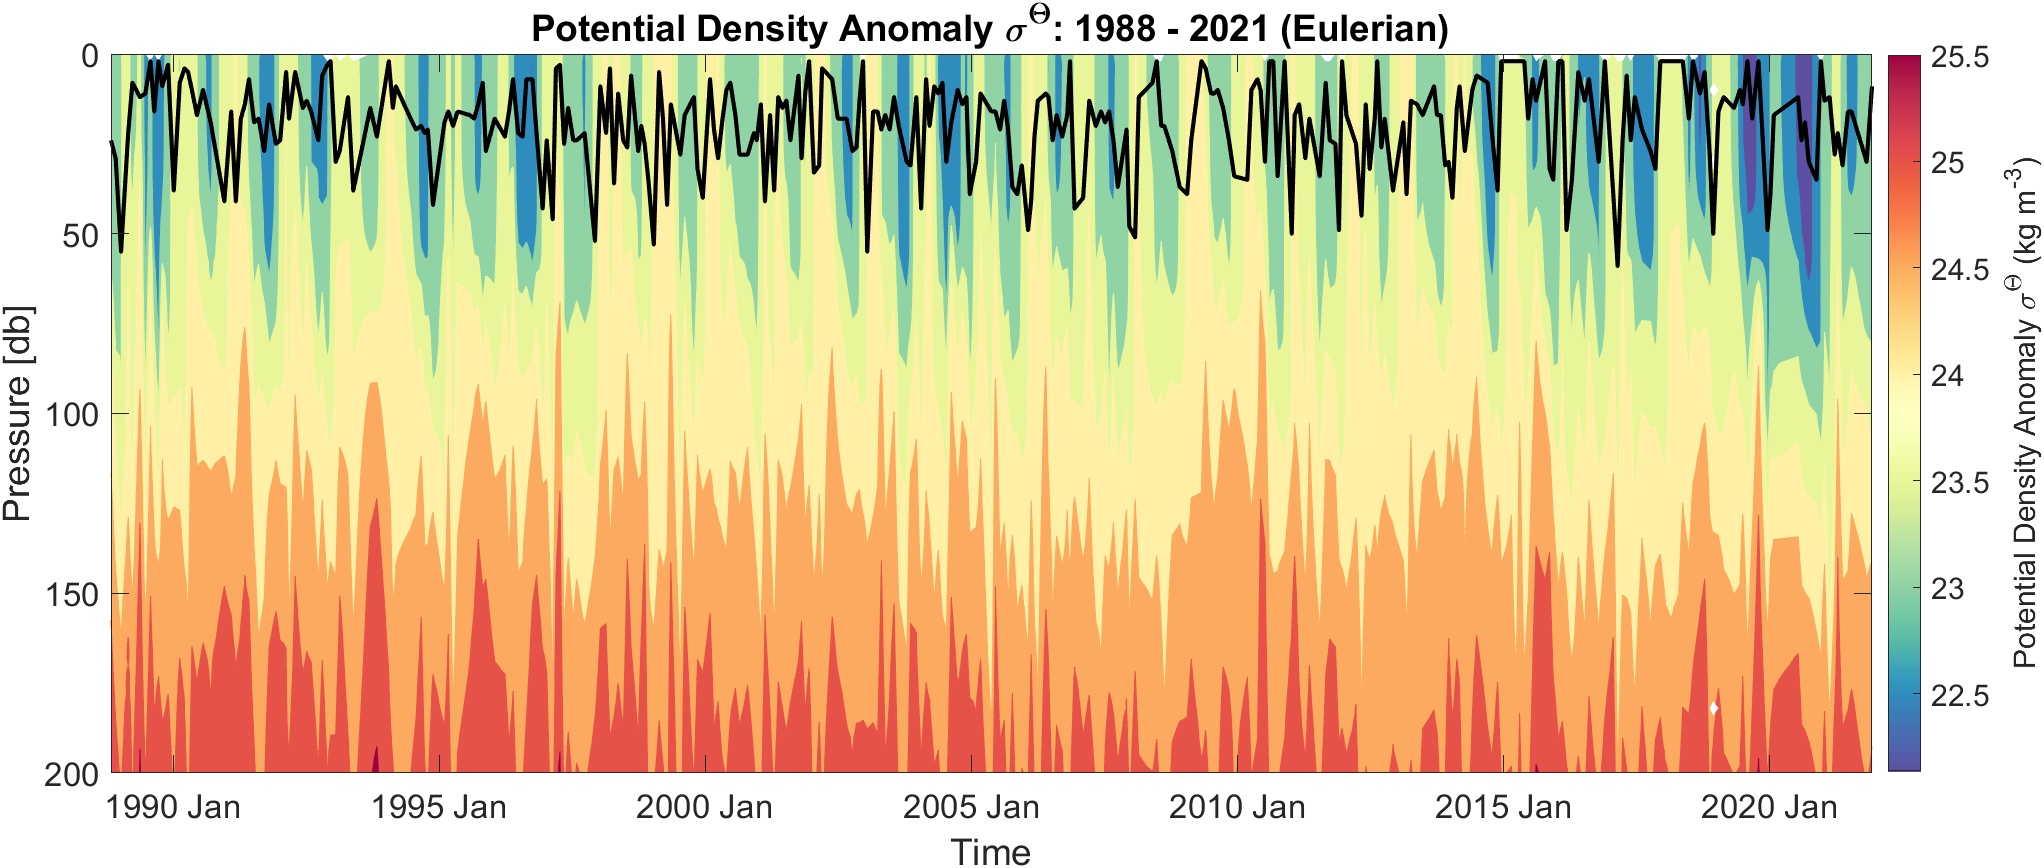
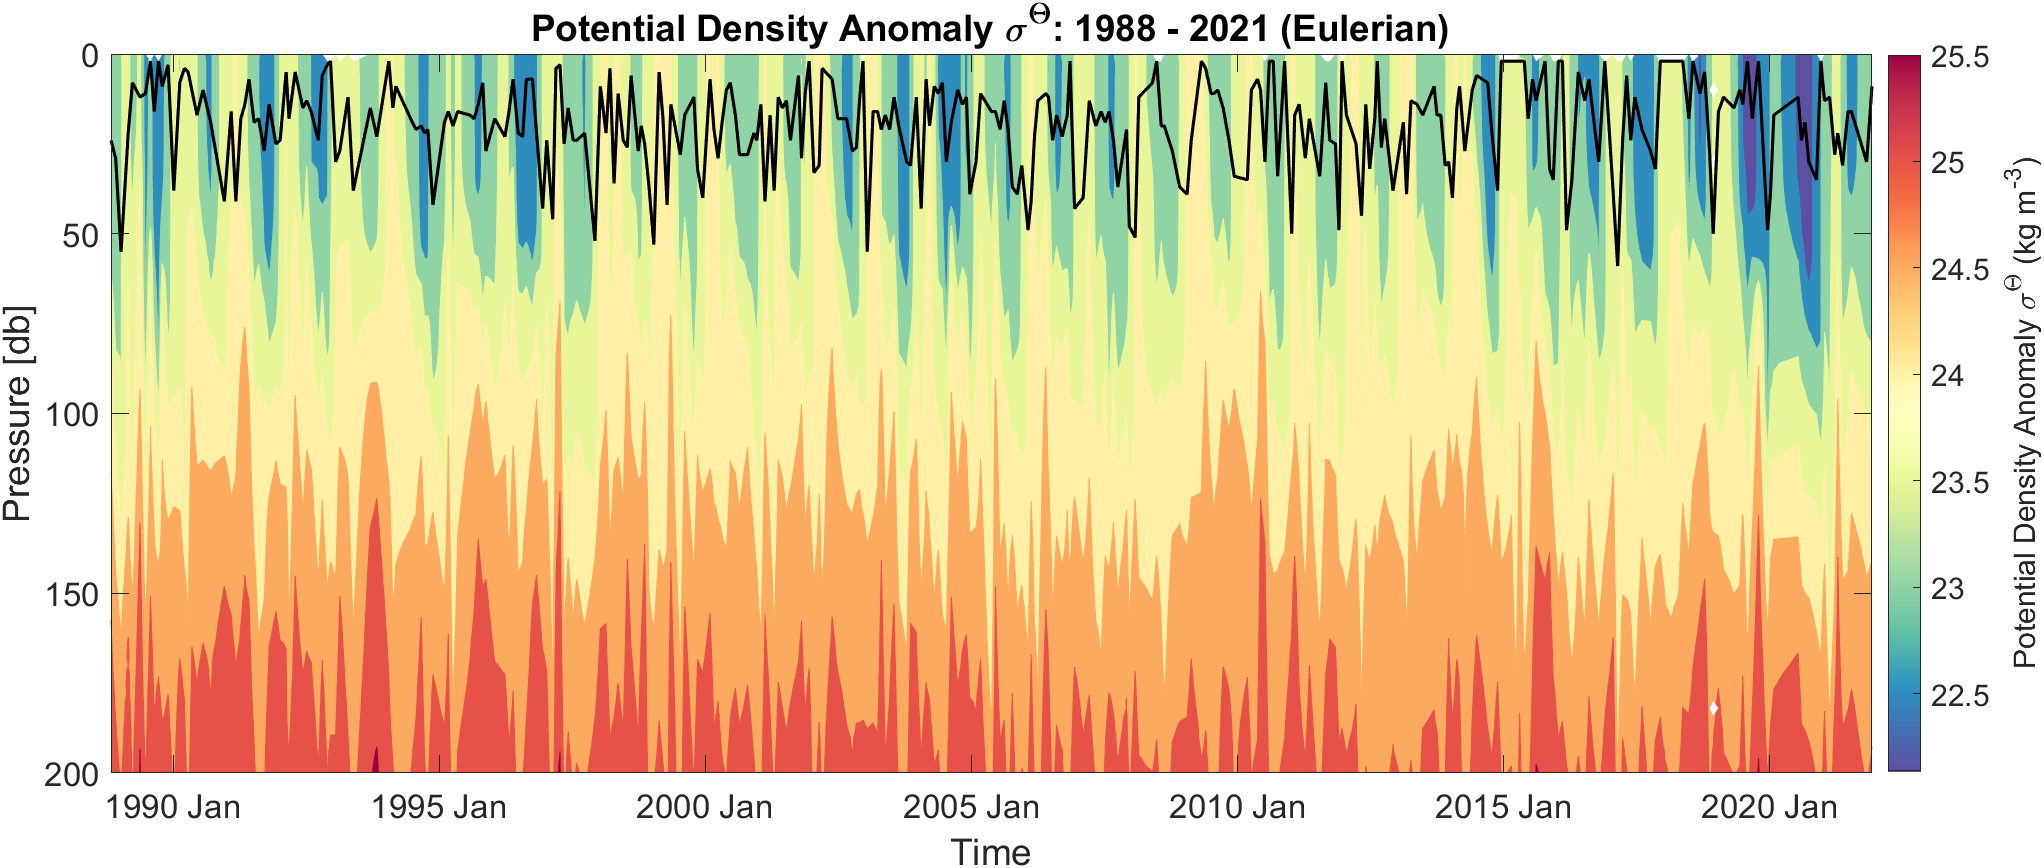
Add MLD to CT(z,t)

Changed region(s): [[0.0616, 0.0622, 0.9247, 0.2488]]

diff --git a/examine_HOTS_STnit.m b/examine_HOTS_STnit.m
@@ -93,9 +93,25 @@ days = reshape(days,101,[]);
 pres = reshape(pressure,101,[]);
 
 [t_grid,p_grid] = meshgrid(datenum(days(1,:)),pres(:,1));
+
+% Definitions of Mixed Layer Depth (MLD)
+% Birol Kara et al. (2000) suggest \Delta T = 0.8 K
+% de Boyer Montegut et al (2004) suggest \Delta T = 0.2 C or \Delta \sigma
+% = 0.03 kg/m3
+% Dong et al (2008) used the above method, so let's try that.
+
+MLDt = [];
+CTTEMP = fillmissing(CT2D(1,:),"previous");
+for j = 1:329
+    MLDt(j) = find(CT2D(:,j) < CTTEMP(j) - 0.2,1);
+end
+
 nb=100
+
 ax3 = figure;
 h=contourf(t_grid,p_grid,CT2D,linspace(16,28,nb),'LineColor','auto');
+hold on
+plot(t_grid(1,:),MLDt,'LineWidth',1.5,'Color',[0 0 0]);
 set(gca,'Ydir','reverse')
 datetick('x','yyyy mmm','keeplimits');
 d = colormap(flipud(cbrewer2('Spectral',nb)));
@@ -142,26 +158,11 @@ for j = 1:329
     MLD(j) = find(sigma2D(:,j) > sigmaTEMP(j) + 0.03,1);
 end
 
-% % Determine MLD using definition of \Delta \sigma = 0.03 kg/m3
-% for i = 1:101
-%     for j = 1:1
-%         %sigmaSurface(j) = sigma2D(1,j);
-%         if sigma2D(i,j) > sigma2D(1,j) + 0.03
-%             disp(i);
-%             break;
-%             MLD(j) = i;
-%         end
-%     end
-% end
-
 ax5 = figure;
 contourf(t_grid,p_grid,sigma2D,'LineColor','auto');
 hold on
-plot(t_grid(1,:),MLD,'LineWidth',2,'Color',[0 0 0]);
+plot(t_grid(1,:),MLD,'LineWidth',1.5,'Color',[0 0 0]);
 hold off
-% hold on
-% plot(t_grid,p_grid,sigma2D(10),'LineColor','red');
-% hold off
 set(gca,'Ydir','reverse')
 datetick('x','yyyy mmm','keeplimits');
 colormap(flipud(cbrewer2('Spectral')));
